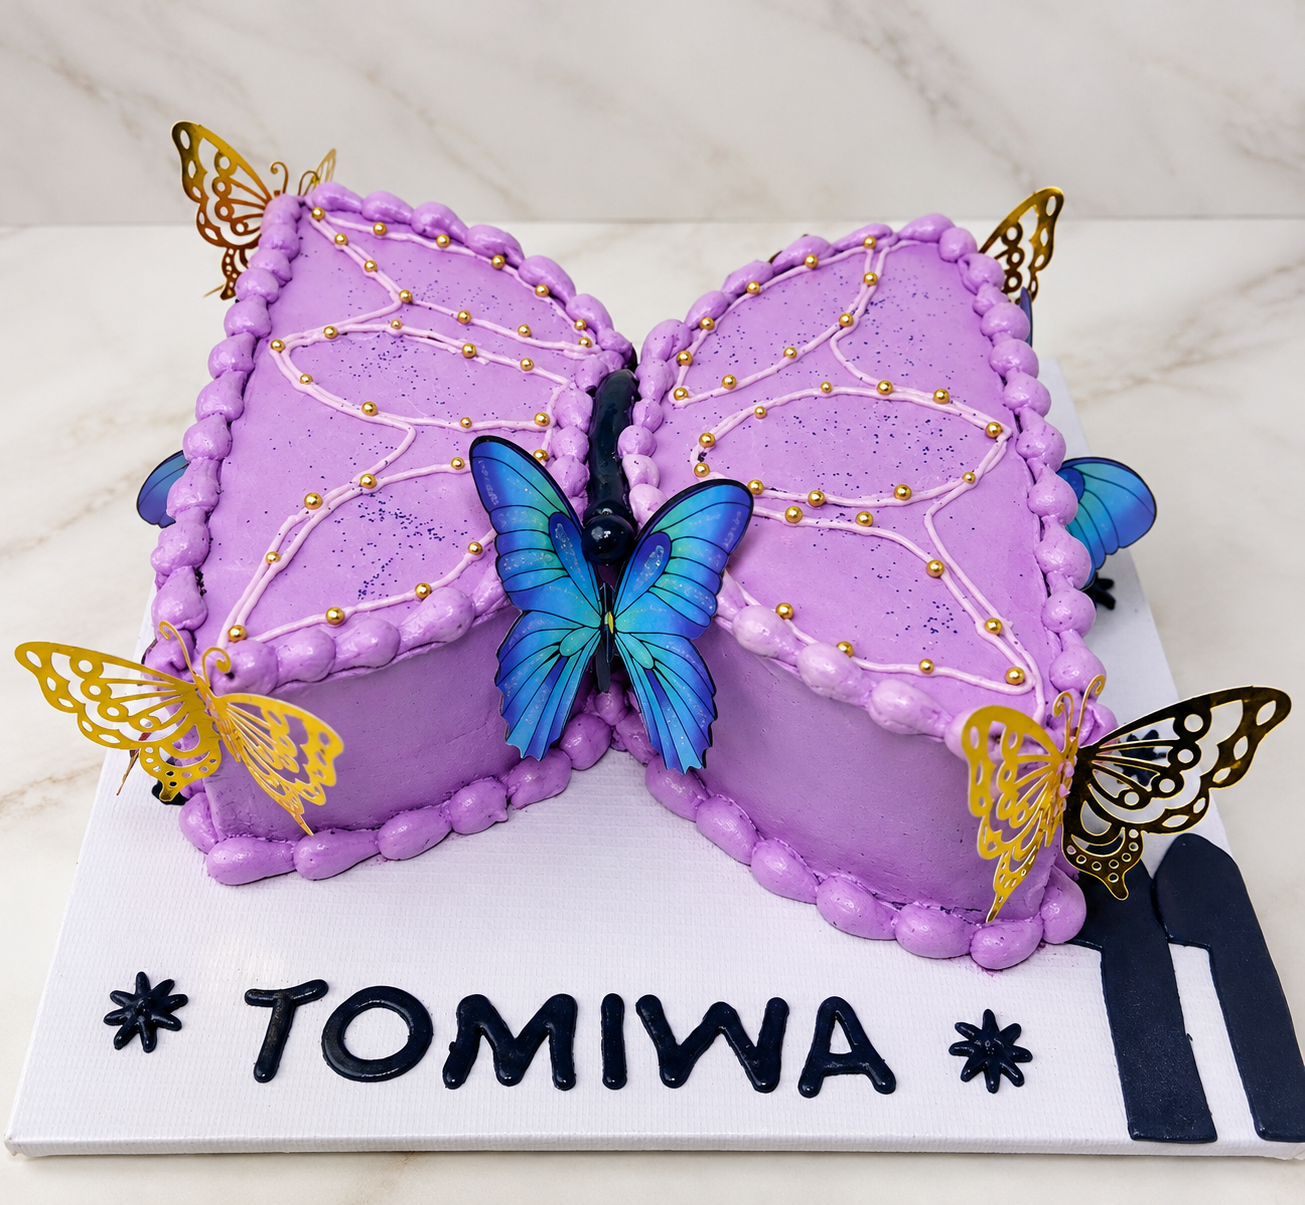
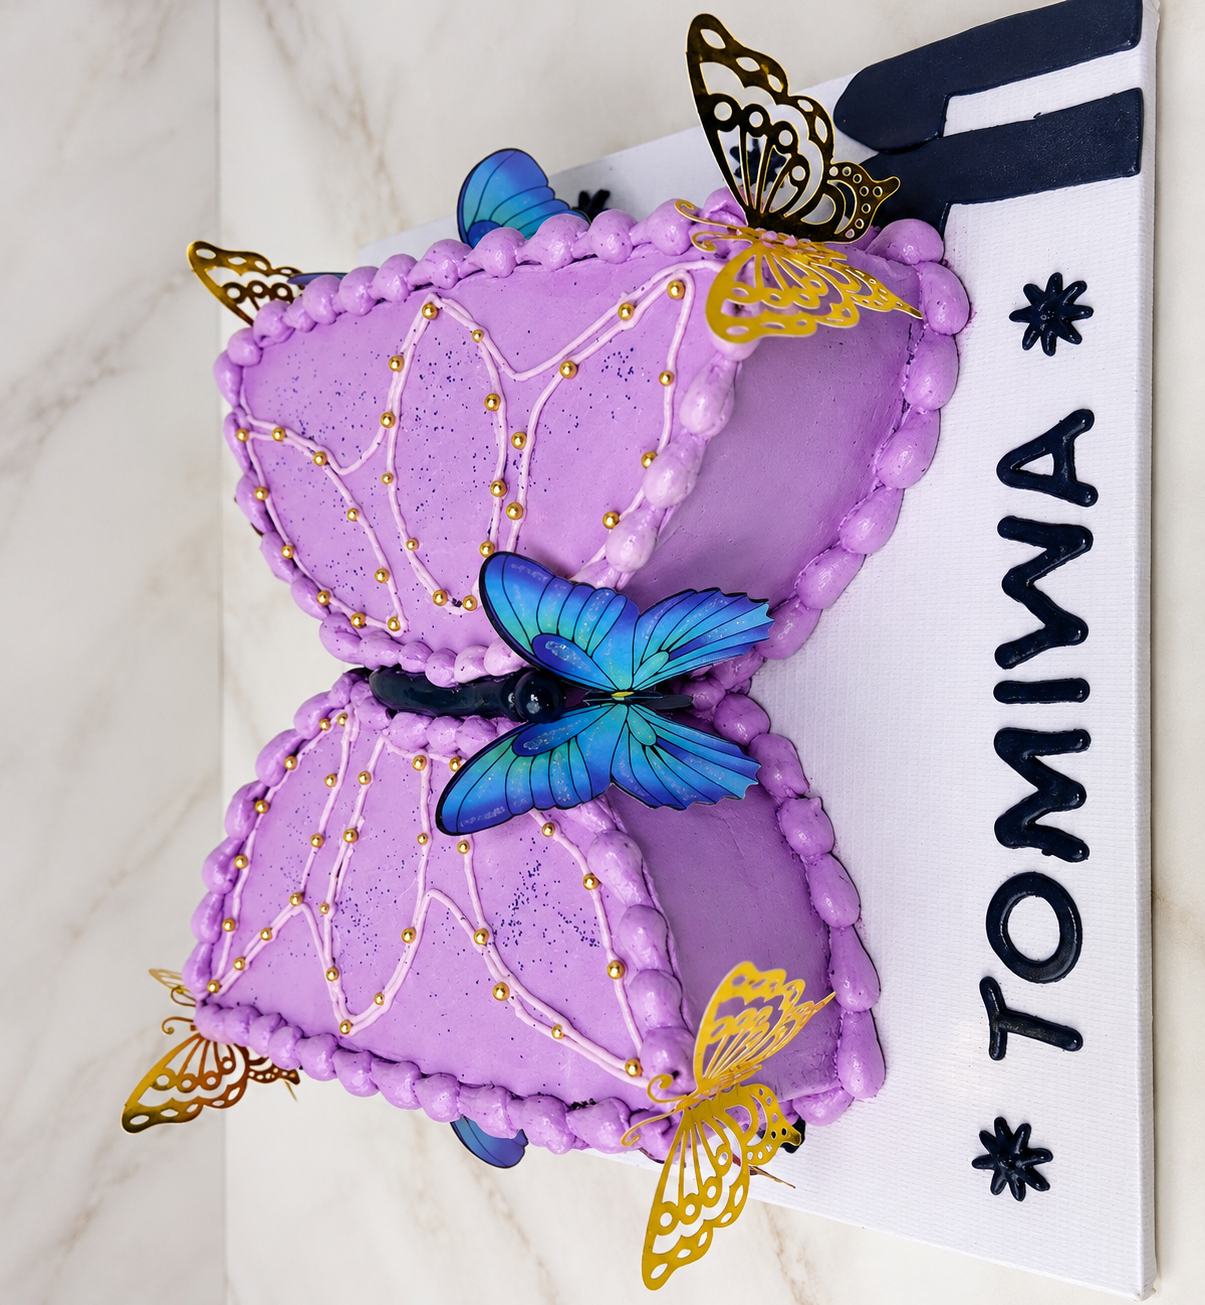
feat(catalog): enable instant preloading of approved products and prices on cakes and bakes pages

diff --git a/src/app/cakes/page.tsx b/src/app/cakes/page.tsx
@@ -17,11 +17,15 @@ import { buildWhatsAppLink } from "@/lib/whatsapp";
 import ProductCard from "@/components/ProductCard";
 import ImageGalleryModal from "@/components/ImageGalleryModal";
 import { Product } from "@/lib/types";
+import seedData from "../../../data/database.json";
 
-// Client-side interactive catalog with initial products fetched from API or embedded
+const DEFAULT_CAKES: Product[] = (seedData.products as Product[])
+  .filter((p) => p.division === "cakes" && p.is_published)
+  .sort((a, b) => (a.order_rank ?? 0) - (b.order_rank ?? 0));
+
 export default function CakesPage() {
-  const [products, setProducts] = useState<Product[]>([]);
-  const [loading, setLoading] = useState(true);
+  const [products, setProducts] = useState<Product[]>(DEFAULT_CAKES);
+  const [loading, setLoading] = useState(false);
   const [selectedCategory, setSelectedCategory] = useState("all");
   const [searchQuery, setSearchQuery] = useState("");
   const [quickViewProduct, setQuickViewProduct] = useState<Product | null>(null);
@@ -31,12 +35,11 @@ export default function CakesPage() {
     fetch("/api/products?division=cakes")
       .then((res) => res.json())
       .then((data) => {
-        if (data.success && Array.isArray(data.products)) {
+        if (data.success && Array.isArray(data.products) && data.products.length > 0) {
           setProducts(data.products);
         }
       })
-      .catch((err) => console.error("Error fetching cakes:", err))
-      .finally(() => setLoading(false));
+      .catch((err) => console.error("Error fetching cakes:", err));
   }, []);
 
   const filteredProducts = useMemo(() => {

diff --git a/src/app/bakes-and-small-chops/page.tsx b/src/app/bakes-and-small-chops/page.tsx
@@ -17,10 +17,15 @@ import { buildWhatsAppLink } from "@/lib/whatsapp";
 import ProductCard from "@/components/ProductCard";
 import ImageGalleryModal from "@/components/ImageGalleryModal";
 import { Product } from "@/lib/types";
+import seedData from "../../../data/database.json";
+
+const DEFAULT_BAKES: Product[] = (seedData.products as Product[])
+  .filter((p) => p.division === "bakes_and_small_chops" && p.is_published)
+  .sort((a, b) => (a.order_rank ?? 0) - (b.order_rank ?? 0));
 
 export default function BakesAndSmallChopsPage() {
-  const [products, setProducts] = useState<Product[]>([]);
-  const [loading, setLoading] = useState(true);
+  const [products, setProducts] = useState<Product[]>(DEFAULT_BAKES);
+  const [loading, setLoading] = useState(false);
   const [selectedCategory, setSelectedCategory] = useState("all");
   const [searchQuery, setSearchQuery] = useState("");
   const [quickViewProduct, setQuickViewProduct] = useState<Product | null>(null);
@@ -30,12 +35,11 @@ export default function BakesAndSmallChopsPage() {
     fetch("/api/products?division=bakes_and_small_chops")
       .then((res) => res.json())
       .then((data) => {
-        if (data.success && Array.isArray(data.products)) {
+        if (data.success && Array.isArray(data.products) && data.products.length > 0) {
           setProducts(data.products);
         }
       })
-      .catch((err) => console.error("Error fetching bakes:", err))
-      .finally(() => setLoading(false));
+      .catch((err) => console.error("Error fetching bakes:", err));
   }, []);
 
   const filteredProducts = useMemo(() => {

diff --git a/src/lib/db/index.ts b/src/lib/db/index.ts
@@ -30,9 +30,13 @@ const DEFAULT_SYNC_SETTINGS: SyncSettings = {
   confidence_threshold: 0.8,
 };
 
+import seedData from "../../../data/database.json";
+
 function initDB(): DatabaseSchema {
   if (!fs.existsSync(DB_DIR)) {
-    fs.mkdirSync(DB_DIR, { recursive: true });
+    try {
+      fs.mkdirSync(DB_DIR, { recursive: true });
+    } catch {}
   }
 
   if (fs.existsSync(DB_FILE)) {
@@ -40,22 +44,11 @@ function initDB(): DatabaseSchema {
       const content = fs.readFileSync(DB_FILE, "utf-8");
       return JSON.parse(content);
     } catch (err) {
-      console.error("Error reading database.json, initializing fresh:", err);
+      console.error("Error reading database.json, using bundled seed data:", err);
     }
   }
 
-  const initialDB: DatabaseSchema = {
-    version: 1,
-    assets: [],
-    products: [],
-    enquiries: [],
-    syncSettings: DEFAULT_SYNC_SETTINGS,
-    syncLogs: [],
-    websiteSettings: DEFAULT_SETTINGS,
-  };
-
-  fs.writeFileSync(DB_FILE, JSON.stringify(initialDB, null, 2), "utf-8");
-  return initialDB;
+  return (seedData as unknown) as DatabaseSchema;
 }
 
 // In-memory cache
